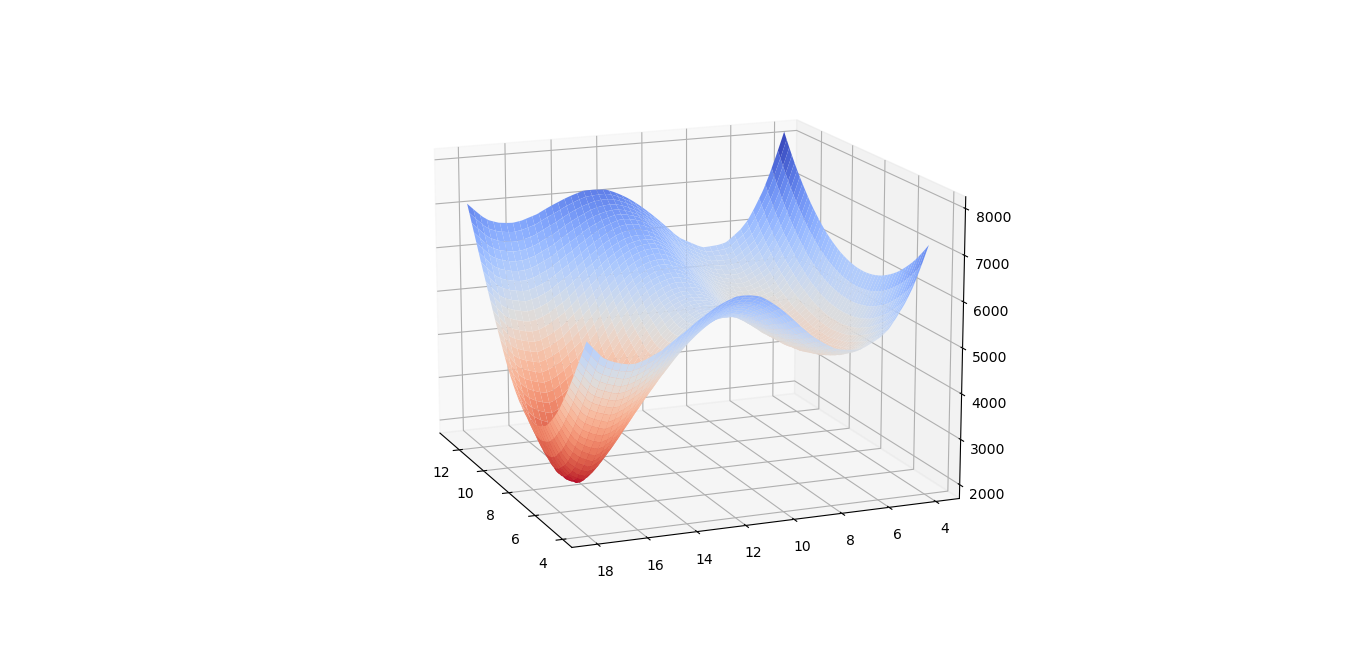
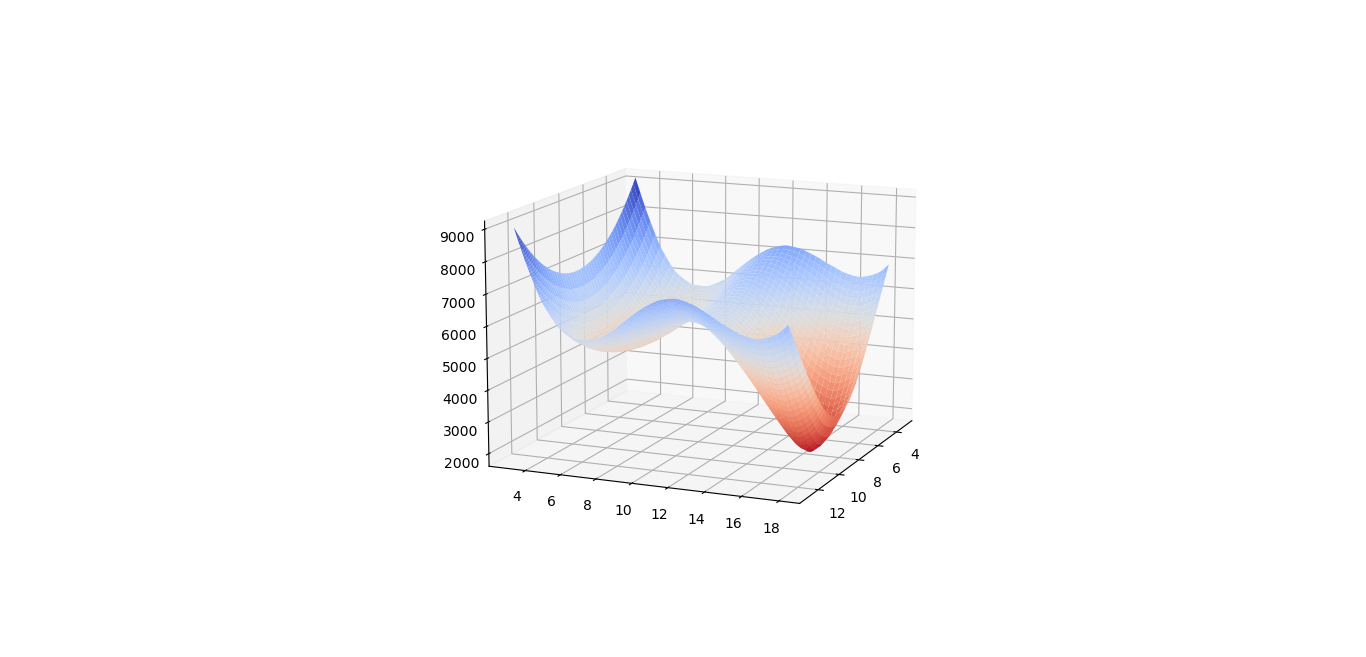
:package: gradient descent images and raw sensor image data

diff --git a/Draws/matplotlib_draws/3d_gradient_descent.py b/Draws/matplotlib_draws/3d_gradient_descent.py
@@ -2,9 +2,11 @@ import matplotlib.pyplot as plt
 import numpy as np
 from mpl_toolkits.mplot3d import Axes3D
 from matplotlib import cm
+from matplotlib.patches import FancyArrowPatch
+from mpl_toolkits.mplot3d import proj3d
 #from ipywidgets import interactive
 
-
+'''
 gradient = [[1,1,0,0,0,0,1,1,0,1,3,3,3,3,3,4,],\
 [0,1,1,1,2,7,14,18,15,7,1,2,2,2,2,3,],\
 [1,0,2,7,28,40,40,38,41,40,28,7,2,1,1,1,],\
@@ -22,6 +24,26 @@ gradient = [[1,1,0,0,0,0,1,1,0,1,3,3,3,3,3,4,],\
 [1,1,26,49,41,19,11,9,12,22,40,50,23,3,1,1,],\
 [1,1,1,11,40,42,37,36,38,43,37,15,2,2,1,1]]
 '''
+
+gradient = [[0,0,1,1,0,1,1,0,0,0,1,0,0,0,0,1],\
+[0,1,1,1,1,0,1,0,0,0,0,0,0,0,0,1],\
+[1,1,1,0,0,0,0,1,0,0,0,0,0,0,0,1],\
+[1,1,1,0,0,0,1,0,1,0,0,0,0,0,0,1],\
+[1,0,0,1,0,1,0,1,0,0,0,0,0,0,0,1],\
+[0,0,0,0,1,0,0,0,0,0,0,0,0,0,0,1],\
+[0,0,0,0,0,1,0,0,1,0,0,0,0,0,0,1],\
+[0,0,0,0,1,1,1,1,1,1,1,0,0,0,0,1],\
+[0,0,0,1,1,0,2,3,3,3,2,1,1,0,0,1],\
+[0,1,1,1,2,7,16,24,30,26,18,9,3,1,0,1],\
+[1,1,1,4,19,41,51,52,53,54,53,50,24,6,1,1],\
+[1,0,4,26,61,57,38,31,24,25,32,53,63,33,6,2],\
+[1,2,21,63,51,9,7,2,4,5,3,7,42,62,31,5],\
+[1,10,51,55,5,2,4,3,3,4,1,3,7,43,60,22],\
+[3,30,59,24,4,2,8,3,2,7,3,3,4,8,52,43],\
+[7,43,47,11,1,3,3,3,4,5,2,2,4,7,39,49]]
+
+'''
+#old border
 gradient = [[1,1,0,1,1,1,1,1,1,1,1,1,1,0,0,1,],\
 [1,0,0,0,0,0,0,1,1,1,1,0,0,0,1,1,],\
 [1,0,0,1,1,1,1,1,1,1,0,0,0,1,1,0,],\
@@ -40,25 +62,76 @@ gradient = [[1,1,0,1,1,1,1,1,1,1,1,1,1,0,0,1,],\
 [6,50,50,6,0,4,2,1,5,2,1,4,3,7,55,44]]
 '''
 
-def f(x, y, r = 6.68):
+class Arrow3D(FancyArrowPatch):
+    def __init__(self, xs, ys, zs, *args, **kwargs):
+        FancyArrowPatch.__init__(self, (0, 0), (0, 0), *args, **kwargs)
+        self._verts3d = xs, ys, zs
+    def draw(self, renderer):
+        xs3d, ys3d, zs3d = self._verts3d
+        xs, ys, zs = proj3d.proj_transform(xs3d, ys3d, zs3d, renderer.M)
+        self.set_positions((xs[0], ys[0]), (xs[1], ys[1]))
+        FancyArrowPatch.draw(self, renderer)
+
+
+def SGN(x):
+  if (x > 0):
+      return 1
+  if (x < 0):
+      return -1
+
+  return 0
+
+
+def f(x, y, r = 6.68):    #6.41
     val = 0
     for y_p in range(0, 16):
         for x_p in range(0, 16):
             val += gradient[y_p][x_p]*abs(np.sqrt((x_p - x)**2 + (y_p - y)**2)-r)
     return val
 
-def plotter(r = 6.68): #6.41
-    fig = plt.figure(figsize = [12, 8])
-    ax = fig.gca(projection = '3d')
-    Z = f(X, Y, r)
-    ax.plot_surface(X, Y, Z, cmap=cm.coolwarm_r)
-    plt.show()
+
+def gradient_val(x, y, r = 6.68):   #6.41
+    dx = 0
+    dy = 0
+    dz = 0
+    for y_p in range(0, 16):
+        for x_p in range(0, 16):
+            x_diff = x_p - x
+            y_diff = y_p - y
+            x_diff_2 = x_diff**2
+            y_diff_2 = y_diff**2
+            if ((x_diff_2 + y_diff_2) == 0):
+                continue
+              
+            dx += gradient[y_p][x_p] * SGN(np.sqrt(x_diff_2 + y_diff_2) - r) * x_diff / np.sqrt(x_diff_2 + y_diff_2)
+            dy += gradient[y_p][x_p] * SGN(np.sqrt(x_diff_2 + y_diff_2) - r) * y_diff / np.sqrt(x_diff_2 + y_diff_2)
+#            dz += gradient[y_p][x_p] * SGN(np.sqrt(x_diff_2 + y_diff_2) - r)
+    return (dx, dy)
+
+
     
-#x = np.linspace(4, 13, 1000)
-#y = np.linspace(4, 18, 1000)
-x = np.linspace(0, 16, 1000)
-y = np.linspace(0, 16, 1000)
+x = np.linspace(3, 13, 1000)
+y = np.linspace(3, 18, 1000)
+#x = np.linspace(0, 16, 1000)
+#y = np.linspace(0, 16, 1000)
 X, Y = np.meshgrid(x, y)
 Z = f(X, Y)
 
-plotter()
+fig = plt.figure(figsize = [12, 8])
+ax = fig.gca(projection = '3d')
+Z = f(X, Y)
+
+'''
+x_grad = 14
+y_grad = 14
+K = 1000
+components = gradient_val(x_grad, y_grad)
+#components = (3, 3, 10000)
+print(components)
+a = Arrow3D([x_grad, x_grad+components[0]/K], [y_grad, y_grad+components[1]/K], [Z[round(x_grad*1000/16)][round(y_grad*1000/16)], Z[round(x_grad*1000/16)][round(y_grad*1000/16)]], mutation_scale=20, lw=10, arrowstyle="-|>", color="k")
+ax.add_artist(a)
+'''
+
+ax.plot_surface(X, Y, Z, cmap=cm.coolwarm_r)
+
+plt.show()

diff --git a/Draws/matplotlib_draws/4d_gradient_descent.py b/Draws/matplotlib_draws/4d_gradient_descent.py
@@ -1,0 +1,97 @@
+import matplotlib.pyplot as plt
+import numpy as np
+from mpl_toolkits.mplot3d import Axes3D
+from matplotlib import cm
+#from ipywidgets import interactive
+
+
+gradient = [[1,1,0,0,0,0,1,1,0,1,3,3,3,3,3,4,],\
+[0,1,1,1,2,7,14,18,15,7,1,2,2,2,2,3,],\
+[1,0,2,7,28,40,40,38,41,40,28,7,2,1,1,1,],\
+[2,1,11,44,49,34,24,21,24,33,48,43,12,1,1,0,],\
+[1,9,49,45,12,2,1,1,1,1,11,41,48,12,1,1,],\
+[3,40,45,4,1,1,2,1,1,1,0,3,41,40,6,1,],\
+[20,48,16,1,1,1,1,2,1,0,1,1,16,45,21,1,],\
+[35,38,3,1,1,0,0,1,3,1,1,0,3,38,33,3,],\
+[37,31,1,0,1,1,0,1,1,2,1,1,0,31,38,7,],\
+[37,30,1,0,1,1,1,0,3,2,0,0,0,31,38,7,],\
+[36,32,1,0,0,0,1,1,1,2,1,0,2,36,36,5,],\
+[29,42,6,0,1,0,0,1,1,1,1,1,11,45,27,2,],\
+[12,46,26,3,0,1,1,1,1,1,0,2,34,45,11,1,],\
+[1,26,50,29,1,1,0,1,1,2,2,29,51,21,3,1,],\
+[1,1,26,49,41,19,11,9,12,22,40,50,23,3,1,1,],\
+[1,1,1,11,40,42,37,36,38,43,37,15,2,2,1,1]]
+'''
+gradient = [[1,1,0,1,1,1,1,1,1,1,1,1,1,0,0,1,],\
+[1,0,0,0,0,0,0,1,1,1,1,0,0,0,1,1,],\
+[1,0,0,1,1,1,1,1,1,1,0,0,0,1,1,0,],\
+[0,0,1,1,1,0,0,0,0,1,1,0,0,1,1,0,],\
+[1,1,1,1,0,0,0,0,1,1,0,0,0,1,1,0,],\
+[1,1,0,0,0,0,0,1,1,0,0,0,1,1,0,0,],\
+[0,0,0,0,1,0,1,1,0,0,0,1,1,1,0,0,],\
+[1,0,1,1,0,2,0,1,1,0,1,1,0,1,0,1,],\
+[0,1,1,1,0,1,2,1,1,1,1,1,0,1,0,1,],\
+[1,1,1,0,1,3,10,14,17,13,5,3,1,1,1,1,],\
+[0,1,1,2,10,35,52,54,52,54,48,27,6,1,0,1,],\
+[1,1,2,18,57,62,47,35,33,38,56,68,49,10,2,1,],\
+[1,1,19,62,52,16,2,4,2,6,7,26,65,55,10,1,],\
+[1,11,53,54,7,2,5,4,6,2,2,4,17,64,45,5,],\
+[2,33,65,19,7,4,2,5,2,3,2,1,3,32,65,26,],\
+[6,50,50,6,0,4,2,1,5,2,1,4,3,7,55,44]]
+'''
+
+def f(x, y, r):
+    val = 0
+    for y_p in range(0, 16):
+        for x_p in range(0, 16):
+            val += gradient[y_p][x_p]*abs(np.sqrt((x_p - x)**2 + (y_p - y)**2)-r)
+    return val
+
+def map_color(val):
+    color = cm.coolwarm_r(val/max_val)
+    return '#%02x%02x%02x' % (round(color[0]*255), round(color[1]*255), round(color[2]*255))
+
+x = np.linspace(0, 16, 8)
+y = np.linspace(0, 16, 8)
+z = np.linspace(0, 16, 8)
+X, Y, Z = np.meshgrid(x, y, z)
+W = f(X, Y, Z)
+
+max_val = 0
+
+for i in range(len(X)):
+    for j in range(len(X[0])):
+        for k in range(len(X[0][0])):
+            if W[i][j][k] > max_val:
+                max_val = W[i][j][k]
+                
+#color_map = [[[0]*10]*10]*10
+color_map = [[], [], [], [], [], [], [], [], [], [], [], [], [], [], [], [], [], [], [], [], [], [], [], [], [], [], [], [], [], []]
+'''
+for i in range(len(X)):
+    for j in range(len(X[0])):
+        for k in range(len(X[0][0])):
+#            color_map[i][j][k] = map_color(W[i][j][k])
+            color_map.append(map_color(W[i][j][k]))
+'''
+for i in range(len(X)):
+    for j in range(len(X[0])):
+        for k in range(len(X[0][0])):
+            color_map[i].append(map_color(W[i][j][k]))
+
+fig = plt.figure()
+ax = fig.gca(projection = '3d')
+
+'''
+for i in range(len(X)):
+    for j in range(len(X[0])):
+        for k in range(len(X[0][0])):
+            ax.scatter(X[i][j][k], Y[i][j][k], Z[i][j][k], color=map_color(W[i][j][k]))
+'''
+
+for i in range(len(X)):
+    ax.scatter(X[i], Y[i], Z[i], c=color_map[i])
+
+#plt.scatter(X, Y, Z, W, cmap="gray")
+plt.show()
+
